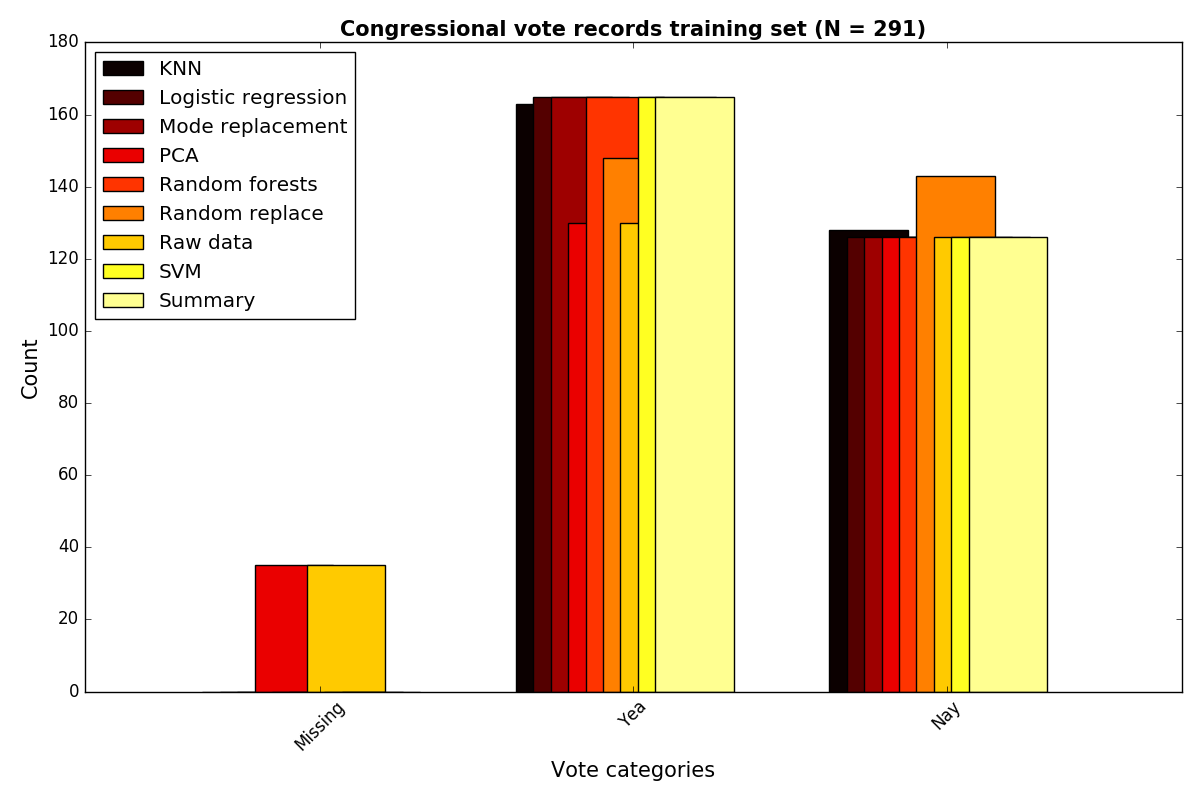
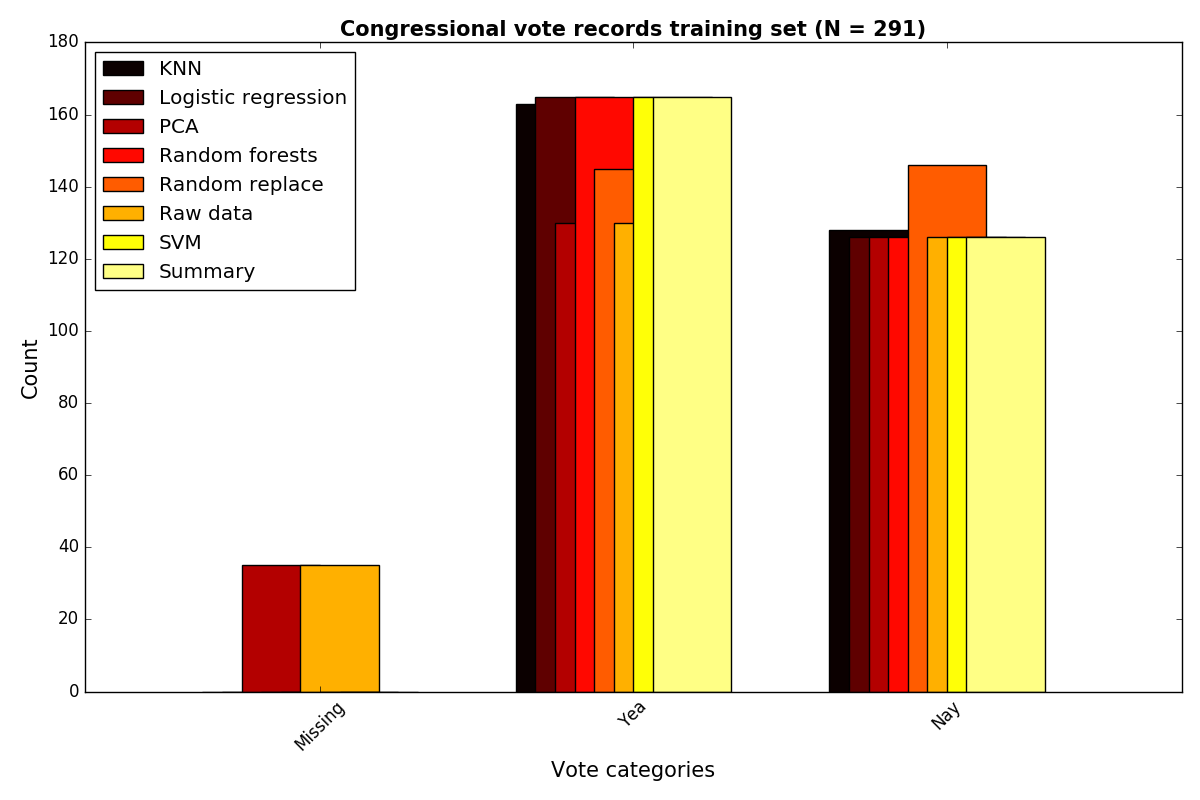
fix examples

diff --git a/example_adult.py b/example_adult.py
@@ -81,7 +81,6 @@ freq_data = {}
 freq_data['Raw data'] = compute_histogram(x[:,1], labels)
 # freq_data['Drop missing'] = compute_histogram(data_drop[:,1], labels)
 freq_data['Random replace'] = compute_histogram(data_replace[:,1], labels)
-freq_data['Mode replacement'] = compute_histogram(data_mode[:,1], labels)
 freq_data['Summary'] = compute_histogram(data_mode[:,1], labels)
 freq_data['Random forests'] = compute_histogram(data_rf[:,1], labels)
 freq_data['SVM'] = compute_histogram(data_svm[:,1], labels)
@@ -101,7 +100,7 @@ for i in xrange(n_methods):
     ax.bar(bins+offset, freq_data[key][:,1].astype(int), width, label=key,
            color=plt.cm.hot(i/float(n_methods)), align='center')
 
-ax.set_xlabel('Work class', size=15)
+ax.set_xlabel('Work class categories', size=15)
 ax.set_ylabel('Count', size=15)
 ax.set_title('Adult training set (N= 32,561)', size=15, fontweight='bold')
 ax.set_xticks(bins + width)

diff --git a/example_votes.py b/example_votes.py
@@ -78,7 +78,6 @@ freq_data = {}
 freq_data['Raw data'] = compute_histogram(x[:,1], labels)
 # freq_data['Drop missing'] = compute_histogram(data_drop[:,1], labels)
 freq_data['Random replace'] = compute_histogram(data_replace[:,1], labels)
-freq_data['Mode replacement'] = compute_histogram(data_mode[:,1], labels)
 freq_data['Summary'] = compute_histogram(data_mode[:,1], labels)
 freq_data['Random forests'] = compute_histogram(data_rf[:,1], labels)
 freq_data['SVM'] = compute_histogram(data_svm[:,1], labels)
